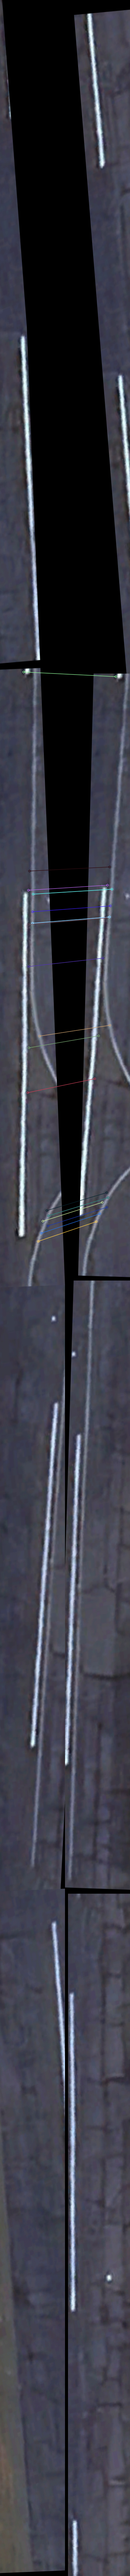
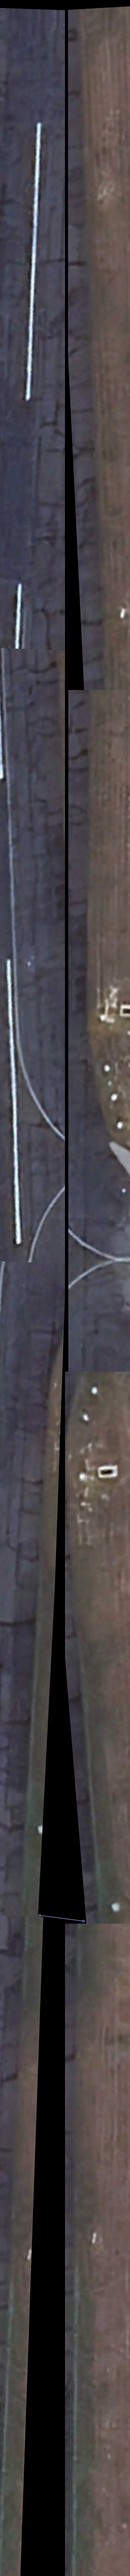
cursor ai is a clown

diff --git a/mapping_test/image_stitch.py b/mapping_test/image_stitch.py
@@ -24,11 +24,9 @@ def getDeltaY(m, kp1, kp2):
     deltay = ry-ly
     return deltay
 
-def getSiftAlignment(img1, img2, overlapx, startyfrac, endyfrac):
+def getSiftAlignment(img1, img2, overlapx, vertical_threshold):
     #get height and width
     h, w1 = img1.shape[:2]
-    #h, w = img1.shape[:2]
-    # Read the images to be stitched
 
     # Initialize SIFT detector
     sift = cv2.SIFT_create()
@@ -36,8 +34,8 @@ def getSiftAlignment(img1, img2, overlapx, startyfrac, endyfrac):
     # Detect keypoints and descriptors
     partialx1 = overlapx
     partialx2 = overlapx
-    partialy1 = int(h*startyfrac)
-    partialy2 = int(h*endyfrac)
+    partialy1 = 0
+    partialy2 = h
     pimg1 = img1[partialy1:partialy2, w1-partialx1:]
     pimg2 = img2[partialy1:partialy2, 0:partialx2]
     
@@ -49,11 +47,11 @@ def getSiftAlignment(img1, img2, overlapx, startyfrac, endyfrac):
     matches = bf.match(des1, des2)
 
     # Sort matches by distance
-    matches = filter(lambda m: abs(getDeltaY(m, kp1, kp2)) < OVERLAP_Y, matches)
+    # Filter matches based on expected vertical alignment (images should be roughly aligned)
+    VERTICAL_THRESHOLD = vertical_threshold  # pixels of allowed vertical deviation
+    matches = filter(lambda m: abs(getDeltaY(m, kp1, kp2)) < VERTICAL_THRESHOLD, matches)
     matches = sorted(matches, key=lambda m: getDeltaX(m, kp1, kp2, partialx1)**2+getDeltaY(m, kp1, kp2)**2)
     matches = matches[:10]
-    #matches = list(filter(lambda m: getDeltaX(m) < 250, matches))
-
     
     img_matches = cv2.drawMatches(
         pimg1, kp1, pimg2, kp2, matches, None, flags=cv2.DrawMatchesFlags_NOT_DRAW_SINGLE_POINTS)
@@ -62,35 +60,35 @@ def getSiftAlignment(img1, img2, overlapx, startyfrac, endyfrac):
 
     if len(matches) == 0:
         print("no matches found, just concatenating")
-        return (overlapx//2, overlapx//2, 0)
+        return (overlapx//2, overlapx//2, 0, 0)
 
     pt_LRx = [getLeftRightX(m, kp1, kp2, partialx1) for m in matches]
     pt_Lx = [x[0] for x in pt_LRx]
     pt_Rx = [x[1] for x in pt_LRx]
     pt_deltay = [getDeltaY(m, kp1, kp2) for m in matches]
-    #hcrop = int(sum(pt_deltax)/len(pt_deltax))
-    #lx = int(sum(pt_Lx)/len(pt_Lx))
-    #rx = int(sum(pt_Rx)/len(pt_Rx))
+    
     lx = int(median(pt_Lx))
     rx = int(median(pt_Rx))
-    #vshift = int(sum(pt_deltay)/len(pt_deltay))
     vshift = int(median(pt_deltay))
-    if abs(vshift) > OVERLAP_Y:
+    
+    if abs(vshift) > VERTICAL_THRESHOLD:
         print("hmm, massive vshift. throwing it out")
-        #print([(kp1[m.queryIdx].pt[1], kp2[m.trainIdx].pt[1]) for m in matches])
-        #print([getDeltaY(m, kp1, kp2) for m in matches])
-        return (overlapx//2, overlapx//2, 0)
-    return (lx, rx, vshift)
-
+        return (overlapx//2, overlapx//2, 0, 0)
+        
+    return (lx, rx, vshift, 0)
 
 def leftRightStitch(img1, img2, overlapx):
-
-    sA = getSiftAlignment(img1, img2, overlapx, 0, 1)
+    sA = getSiftAlignment(img1, img2, overlapx, 30)
     hcrop = sA[0]+sA[1]
     vshift = sA[2]
-    #if second image is "lower" than first image, vshift will be positive
+    rotation = sA[3]
 
-    #print(sA)
+    # Apply rotation to img2 if needed
+    if abs(rotation) > 0:
+        center = (img2.shape[1]//2, img2.shape[0]//2)
+        M = cv2.getRotationMatrix2D(center, rotation, 1.0)
+        img2 = cv2.warpAffine(img2, M, (img2.shape[1], img2.shape[0]))
+
     if vshift > 0:
         img1 = cv2.copyMakeBorder(img1, vshift, 0, 0, 0, cv2.BORDER_CONSTANT)
         img1 = img1[:-vshift]
@@ -98,16 +96,10 @@ def leftRightStitch(img1, img2, overlapx):
         img2 = cv2.copyMakeBorder(img2, -vshift, 0, 0, 0, cv2.BORDER_CONSTANT)
         img2 = img2[:vshift]
     
-    #print(img1.shape, img2.shape)
-    #print(vshift)
     img1 = img1[0:, 0:-sA[0]]
     img2 = img2[0:, sA[1]:]
-    #img1 = img1[:newH, 0:-hcrop]
-    #img2 = img2[:newH]
-    #print(img1.shape, img2.shape)
-    return cv2.hconcat((img1, img2)) 
-    #np.concatenate((img1, img2), axis=1)
-
+    
+    return cv2.hconcat((img1, img2))
 
 #img1 = cv2.imread('12-picture-map-test/1-1.png')
 #img2 = cv2.imread('12-picture-map-test/1-2.png')
@@ -148,8 +140,8 @@ COLS = 4
 ROWS = 3
 DIRECTORY = "runway1"
 IMG_PATH = "result.png"
-OVERLAP_X = int(0.03*KING_SIZE[0])
-OVERLAP_Y = int(0.06*KING_SIZE[1])
+OVERLAP_X = int(0.14*KING_SIZE[0])
+OVERLAP_Y = int(0.18*KING_SIZE[1])
 #OVERLAP_X = int(0.2*KING_SIZE[0])
 #OVERLAP_Y = int(0.1*KING_SIZE[1])
 
